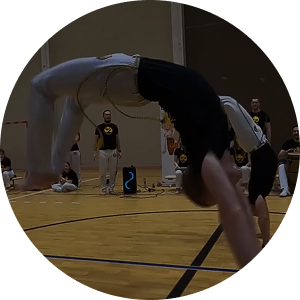
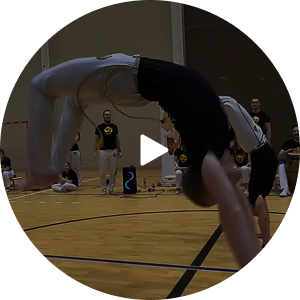
WIP

Changed region(s): [[0.45, 0.45, 0.57, 0.57]]

diff --git a/src/routes/about-capoeira/ui/CapoeiraComponents/CapoeiraComponents.tsx b/src/routes/about-capoeira/ui/CapoeiraComponents/CapoeiraComponents.tsx
@@ -17,7 +17,16 @@ export function CapoeiraComponents() {
         Из чего состоит капоэйра
       </Typography>
       <div className={styles.ComponentsContainer}>
-        <div className={styles.Component}>
+        <div
+          className={styles.Component}
+          onClick={() =>
+            window.open(
+              'https://www.youtube.com/',
+              '_blank',
+              'noopener,noreferrer'
+            )
+          }
+        >
           <div className={styles.Column}>
             <Typography weight="demiBold" className={styles.CardTitle}>
               Искусство боя
@@ -28,6 +37,69 @@ export function CapoeiraComponents() {
             </Typography>
           </div>
           <img src={Pic1} className={styles.Image} alt="Искусство боя" />
+        </div>
+        <div
+          className={styles.Component}
+          onClick={() =>
+            window.open(
+              'https://www.youtube.com/',
+              '_blank',
+              'noopener,noreferrer'
+            )
+          }
+        >
+          <div className={styles.Column}>
+            <Typography weight="demiBold" className={styles.CardTitle}>
+              Акробатика
+            </Typography>
+            <Typography className={styles.Text}>
+              Благодаря ей единоборство похоже на грациозный танец. На занятиях
+              сначала обучают простым приемам, постепенно переходя к сложным
+            </Typography>
+          </div>
+          <img src={Pic2} className={styles.Image} alt="Акробатика" />
+        </div>
+        <div
+          className={styles.Component}
+          onClick={() =>
+            window.open(
+              'https://www.youtube.com/',
+              '_blank',
+              'noopener,noreferrer'
+            )
+          }
+        >
+          <div className={styles.Column}>
+            <Typography weight="demiBold" className={styles.CardTitle}>
+              Музыка и танец
+            </Typography>
+            <Typography className={styles.Text}>
+              Во время занятий играют традиционную афро-бразильскую музыку. Она
+              помогает войти в ритм и отдает дань истории капоэйры
+            </Typography>
+          </div>
+          <img src={Pic3} className={styles.Image} alt="Искусство боя" />
+        </div>
+        <div
+          className={styles.Component}
+          onClick={() =>
+            window.open(
+              'https://www.youtube.com/',
+              '_blank',
+              'noopener,noreferrer'
+            )
+          }
+        >
+          <div className={styles.Column}>
+            <Typography weight="demiBold" className={styles.CardTitle}>
+              Рода
+            </Typography>
+            <Typography className={styles.Text}>
+              Игра, или единоборство, происходит в кругу зрителей и музыкантов —
+              ро́де. Они стоят или сидят, наблюдая за поединком
+            </Typography>
+          </div>
+          <img src={Pic4} className={styles.Image} alt="Искусство боя" />
         </div>
       </div>
     </div>

diff --git a/src/routes/about-capoeira/ui/CapoeiraComponents/CapoeiraComponents.module.css b/src/routes/about-capoeira/ui/CapoeiraComponents/CapoeiraComponents.module.css
@@ -20,7 +20,23 @@
 }
 
 .ComponentsContainer {
+  display: flex;
+  gap: 8px;
+  overflow-x: auto;
+  width: calc(50% + 50vw);
+  -ms-overflow-style: none;
+  scrollbar-width: none;
 
+  @media (min-width: 1025px) {
+    display: grid;
+    grid-template-columns: repeat(2, 1fr);
+    grid-template-rows: auto;
+    gap: 24px;
+    width: 100%;
+  }
+}
+.ComponentsContainer::-webkit-scrollbar {
+  display: none;
 }
 
 .Component {
@@ -29,13 +45,15 @@
   flex-direction: column;
   padding: 24px;
   gap: 46px;
-  max-width: 335px;
+  width: 335px;
+  flex-shrink: 0;
   border-radius: 20px;
+  cursor: pointer;
 
   @media (min-width: 1025px) {
     flex-direction: row;
     gap: 18px;
-    max-width: 668px;
+    width: 668px;
   }
 }
 
@@ -67,11 +85,11 @@
 .Image {
   width: 100%;
   height: auto;
-  max-width: 200px;
+  width: 200px;
   margin-left: 87px;
 
   @media (min-width: 1025px) {
-    max-width: 300px;
+    width: 300px;
     margin: 0;
   }
 }

diff --git a/src/routes/about-capoeira/AboutCapoeira.module.css b/src/routes/about-capoeira/AboutCapoeira.module.css
@@ -25,6 +25,7 @@
 }
 
 .ContentWithPadding {
+  width: 100%;
   max-width: 1440px;
   display: flex;
   flex-direction: column;
